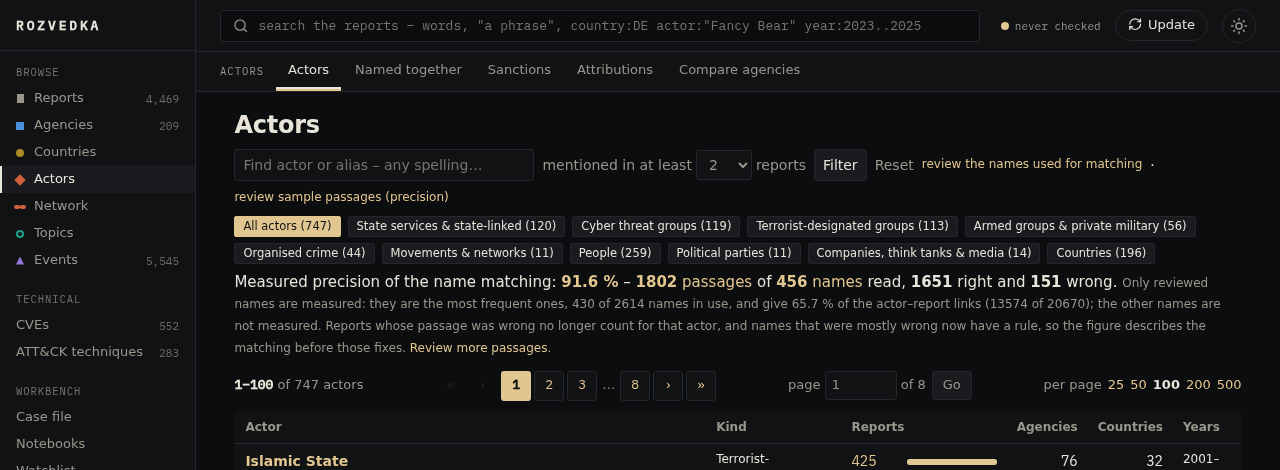
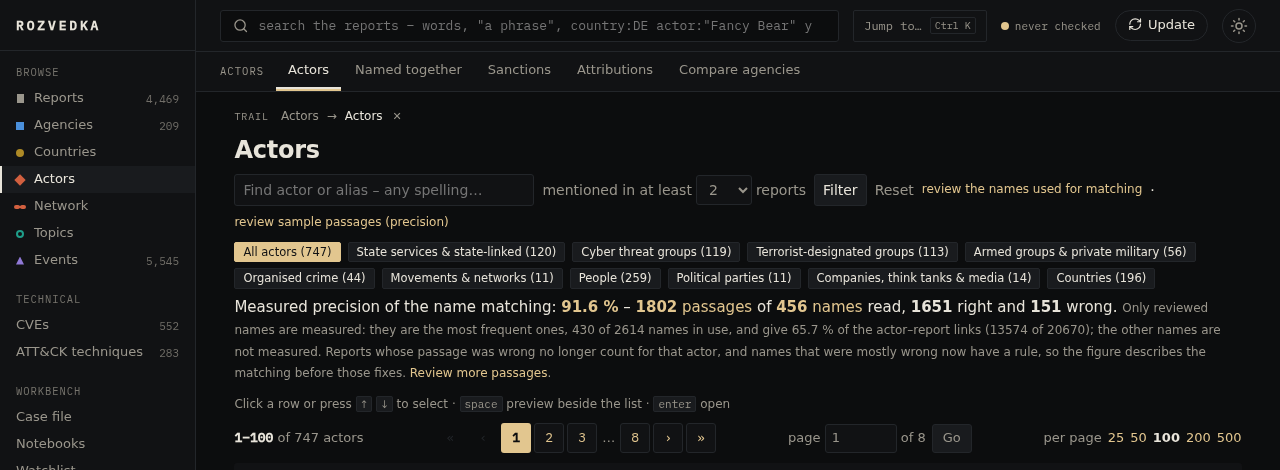
feat: preview pane on the Actors list (0.103.0)
A selected actor shows beside the list: key numbers, links by source, the
latest passage, the agencies naming it most, topics and co-named actors.
preview.js now serves any list whose rows carry data-pv and data-open.

diff --git a/rozvedka/templates/actor_preview.html b/rozvedka/templates/actor_preview.html
@@ -1,0 +1,33 @@
+{# one actor in the Actors list's preview pane (static/preview.js) – a piece of a page, not a page #}
+{% from "_ties.html" import ent %}
+{% set a = actor %}
+<p class="pv-kicker"><span>Preview · actor</span><button type="button" class="pv-close" title="Close the preview (Esc)">esc ✕</button></p>
+<h2 class="pv-title"><a href="/actors/{{ a.key }}">{{ a.label }}</a></h2>
+<p class="pv-by"><span class="ent"><i class="kdot kind-{{ a.kind }}"></i>{{ kind_name }}</span>{% if a.description %} <span class="muted">· {{ a.description }}
+  – {% if a.wikidata %}<a href="{{ a.wikidata.url }}">Wikidata</a>{% elif a.attack %}<a href="{{ a.attack.url }}">MITRE ATT&amp;CK</a>{% endif %}</span>{% endif %}</p>
+<p class="rp-actions"><a class="rp-btn rp-primary" href="/actors/{{ a.key }}">Open actor</a>
+  <a class="rp-btn" href="/documents?actor={{ a.key }}">Reports</a>
+  <a class="rp-btn" href="/actors/{{ a.key }}/timeline">Timeline</a>
+  {% if links %}<a class="rp-btn" href="/graph/rings?e={{ a.key }}">Rings</a>{% endif %}</p>
+{% set dated = timeline|selectattr('docs')|list if timeline else [] %}
+<table class="kv small pv-facts">
+  <tr><th>Reports</th><td><a href="/documents?actor={{ a.key }}">{{ docs|num }}</a> name{{ 's' if docs == 1 }} it · {{ agencies|length }} agenc{{ 'y' if agencies|length == 1 else 'ies' }}</td></tr>
+  {% if dated %}{% set peak = dated|sort(attribute='docs')|last %}<tr><th>Years</th><td>{{ dated[0].year }}{% if dated[-1].year != dated[0].year %}–{{ dated[-1].year }}{% endif %} · most in <a href="{{ peak.link }}">{{ peak.year }}</a> <span class="muted">({{ peak.docs }} report{{ 's' if peak.docs != 1 }})</span></td></tr>{% endif %}
+  {% for g, name in (('official', 'Official'), ('reference', 'Reference'), ('leaks', 'Leaked'), ('reports', 'Named with')) %}{% set ls = links|selectattr('group', 'equalto', g)|list %}{% if ls %}
+  <tr><th>{{ name }}</th><td>{% for l in ls %}<a href="{{ l.link }}" title="{{ l.name }}">{{ l.n|num }} {{ l.name.split(' (')[0] }}</a>{{ ' · ' if not loop.last }}{% endfor %}</td></tr>{% endif %}{% endfor %}
+</table>
+{% if passages %}{% set p = passages[0] %}<h3 class="pv-h">Latest passage <span class="muted">· {{ p.agency }}{% if p.year %} {{ p.year }}{% endif %}</span></h3>
+  <blockquote class="snippet pv-pass">{{ '…' ~ p.before[-around:] if p.before|length > around else p.before }}<mark>{{ p.match }}</mark>{{ p.after[:around] ~ '…' if p.after|length > around else p.after }}
+    <a class="pv-pg" href="{{ p.open }}">{% if p.page %}p. {{ p.page }}{% else %}open{% endif %}</a></blockquote>
+  <p class="muted small pv-from"><a href="/report/{{ p.doc_id }}">{{ (p.title or 'Untitled report')|truncate(90) }}</a></p>{% endif %}
+{% if agencies %}<h3 class="pv-h">Named most by</h3>
+  <ul class="pv-list">{% for g in agencies[:shown] %}<li><img class="flag-sm" src="{{ flag_url(g.country) }}" alt="" width="16" height="12">
+    <a href="/agency/{{ g.source_id }}">{{ g.agency }}</a>{{ pub_mark(g.source_id) }}
+    <a class="pv-n" href="/documents?actor={{ a.key }}&source={{ g.source_id }}">{{ g.docs }}</a></li>{% endfor %}</ul>
+  {% if agencies|length > shown %}<p class="muted small"><a href="/actors/{{ a.key }}#reporting-agencies">and {{ agencies|length - shown }} more →</a></p>{% endif %}{% endif %}
+{% if topics %}<h3 class="pv-h">Topics of its reports</h3>
+  <p class="pv-chips">{% for t in topics[:shown] %}<a class="topic-chip" href="{{ t.link }}">{{ t.name }} <b>{{ t.docs }}</b></a>{% endfor %}</p>{% endif %}
+{% if related.actors %}<h3 class="pv-h">Named in the same passage <span class="muted">· not evidence of a connection</span></h3>
+  <ul class="pv-list">{% for r in related.actors[:shown] %}<li>{{ ent(r.label, r.kind, '/actors/' ~ r.key) }}
+    <a class="pv-n" href="/actors/{{ a.key }}/with/{{ r.key }}" title="Passages naming both">{{ r.docs }}</a></li>{% endfor %}</ul>{% endif %}
+<p class="pv-keys">↑ ↓ or j k move · space preview · enter open · esc close</p>

diff --git a/rozvedka/static/preview.js b/rozvedka/static/preview.js
@@ -1,24 +1,27 @@
-// The Reports list: a row can be selected (click, ↑ ↓ or j k) and previewed in a pane beside the list (space, or its
-// button) without leaving the list; enter opens the report. The pane's content comes from /report/<id>/preview with the
-// list's own search, so it shows the passage that made the report match.
+// Lists with a preview pane (Reports, Actors): a row can be selected (click, ↑ ↓ or j k) and previewed in a pane
+// beside the list (space, or its button) without leaving the list; enter opens its page. A row says where its preview
+// (data-pv) and its page (data-open) are; a report's preview gets the list's own search, so it shows the passage
+// that made the report match.
 (() => {
-  const rows = [...document.querySelectorAll("table.docs tbody tr[data-doc]")];
+  const rows = [...document.querySelectorAll("tbody tr[data-pv]")];
   const pane = document.getElementById("pv");
   if (!rows.length || !pane) return;
   const cache = new Map();
   let sel = -1, open = false, timer = 0;
   const want = new URLSearchParams(location.search);
   const qs = new URLSearchParams();
-  for (const k of ["q", "exact", "indexed", "actor"]) if (want.get(k)) qs.set(k, want.get(k));
+  if (pane.dataset.search !== undefined) for (const k of ["q", "exact", "indexed", "actor"]) if (want.get(k)) qs.set(k, want.get(k));
+  const what = pane.dataset.what || "report";
+  const kicker = `<p class="pv-kicker"><span>Preview · ${what}</span></p>`;
 
   function show(i) {
-    const id = rows[i].dataset.doc;
-    const put = (html) => { if (rows[sel] && rows[sel].dataset.doc === id) { pane.innerHTML = html; pane.scrollTop = 0; } };
+    const id = rows[i].dataset.pv;
+    const put = (html) => { if (rows[sel] && rows[sel].dataset.pv === id) { pane.innerHTML = html; pane.scrollTop = 0; } };
     if (cache.has(id)) return put(cache.get(id));
-    pane.innerHTML = '<p class="pv-kicker"><span>Preview · report</span></p><p class="muted small">Loading…</p>';
-    fetch(`/report/${id}/preview?${qs}`).then((r) => r.ok ? r.text() : Promise.reject(r.status))
+    pane.innerHTML = kicker + '<p class="muted small">Loading…</p>';
+    fetch(`${id}?${qs}`).then((r) => r.ok ? r.text() : Promise.reject(r.status))
       .then((html) => { cache.set(id, html); put(html); })
-      .catch(() => put('<p class="pv-kicker"><span>Preview · report</span></p><p class="muted small">The preview could not be loaded.</p>'));
+      .catch(() => put(kicker + '<p class="muted small">The preview could not be loaded.</p>'));
   }
   function setOpen(on) {
     open = on && sel >= 0;
@@ -46,8 +49,8 @@
       setOpen(true);
     });
   });
-  const first = /^#pv-(\d+)$/.exec(location.hash);        // an address ending #pv-<report id> opens with that preview
-  const at = first ? rows.findIndex((r) => r.dataset.doc === first[1]) : -1;
+  const first = /^#pv-([\w.:-]+)$/.exec(location.hash);    // an address ending #pv-<row id> opens with that preview
+  const at = first ? rows.findIndex((r) => r.dataset.id === first[1]) : -1;
   if (at >= 0) { select(at, true); setOpen(true); }
   pane.addEventListener("click", (e) => { if (e.target.closest(".pv-close")) setOpen(false); });
   document.addEventListener("keydown", (e) => {
@@ -56,7 +59,7 @@
     if (k === "ArrowDown" || k === "j") select(sel < 0 ? 0 : sel + 1, true);
     else if (k === "ArrowUp" || k === "k") select(sel < 0 ? 0 : sel - 1, true);
     else if (k === " " && sel >= 0) setOpen(!open);
-    else if (k === "Enter" && sel >= 0) location.href = `/report/${rows[sel].dataset.doc}`;
+    else if (k === "Enter" && sel >= 0) location.href = rows[sel].dataset.open;
     else if (k === "Escape" && open) setOpen(false);
     else return;
     e.preventDefault();

diff --git a/rozvedka/static/style.css b/rozvedka/static/style.css
@@ -1703,8 +1703,8 @@ span.conn-n { color: var(--muted); }
 
 /* the Reports list's preview pane (static/preview.js): beside the list on a wide screen, over it on a narrow one */
 .docs tbody tr[data-doc] { cursor: default; }
-.docs tbody tr.sel > td { background: var(--chip); }
-.docs tbody tr.sel > td:first-child { box-shadow: inset 2px 0 0 var(--accent); }
+tbody tr[data-pv].sel > td { background: var(--chip); }
+tbody tr[data-pv].sel > td:first-child { box-shadow: inset 2px 0 0 var(--accent); }
 .pv-btn { border: 0; background: none; color: var(--muted); padding: 2px 4px; font-size: 14px; line-height: 1; cursor: pointer; }
 .pv-btn:hover, .pv-btn[aria-pressed="true"] { color: var(--accent); }
 .pv-hint { margin: 0 0 6px; }
@@ -1729,6 +1729,13 @@ span.conn-n { color: var(--muted); }
 .pv-pg { font: 11px var(--mono); white-space: nowrap; margin-left: 4px; }
 .pv-chips, .pv-named { margin: 0; display: flex; flex-wrap: wrap; gap: 5px 12px; }
 .pv-chips { gap: 5px; }
+.pv-list { list-style: none; margin: 0; padding: 0; font-size: 13px; }
+.pv-list li { display: flex; align-items: center; gap: 6px; padding: 2px 0; }
+.pv-n { margin-left: auto; font: 12px var(--mono); }
+.pv-from { margin: 4px 0 0 12px; }
+.pv-chips .topic-chip b { font-weight: 500; margin-left: 4px; }
+.a-pv { float: right; }
+@media (min-width: 1200px) { body.pv-open .actors th:nth-child(n+4), body.pv-open .actors td:nth-child(n+4) { display: none; } }
 .pv-keys { margin: 16px 0 0; padding-top: 10px; border-top: 1px solid var(--line); font: 11px var(--mono); color: var(--muted); }
 @media (min-width: 1200px) { /* beside the pane the list keeps year, publisher and title; the pane says the rest */
   body.pv-open .docs th:nth-child(n+4), body.pv-open .docs td:nth-child(n+4) { display: none; }

diff --git a/rozvedka/templates/actors.html b/rozvedka/templates/actors.html
@@ -44,13 +44,15 @@
   <code>python -m rozvedka index-actors</code>.</p>
 {% endif %}
 
+{% if rows %}<p class="pv-hint muted small">Click a row or press <kbd>↑</kbd> <kbd>↓</kbd> to select · <kbd>space</kbd> preview beside the list · <kbd>enter</kbd> open</p>{% endif %}
 {{ pager(pg, "actors") }}
 <table class="actors">
   <thead><tr><th>Actor</th><th>Kind</th><th>Reports</th><th class="num">Agencies</th><th class="num">Countries</th><th>Years</th></tr></thead>
   <tbody>
   {% for r in rows %}
-    <tr>
-      <td><a class="a-name" href="/actors/{{ r.key }}">{{ r.label }}</a>
+    <tr data-id="{{ r.key }}" data-pv="/actors/{{ r.key }}/preview" data-open="/actors/{{ r.key }}">
+      <td><button type="button" class="pv-btn a-pv" title="Preview beside the list (space)" aria-label="Preview" aria-pressed="false">◨</button>
+        <a class="a-name" href="/actors/{{ r.key }}">{{ r.label }}</a>
         {% if r.description %}<div class="muted small">{{ r.description }}</div>{% endif %}</td>
       <td class="small">{{ kinds.get(r.kind, r.kind) }}</td>
       <td class="a-docs"><a href="/documents?actor={{ r.key }}">{{ r.docs }}</a>
@@ -64,6 +66,8 @@
 </table>
 {{ pager(pg, "actors") }}
 {% if not rows and meta.get('names_hash') %}<p class="muted">No actor matches.</p>{% endif %}
+<aside class="pv" id="pv" data-what="actor" aria-label="Preview of the selected actor" aria-live="polite" hidden></aside>
+<script src="{{ asset('preview.js') }}" defer></script>
 
 <section class="viz-card provenance">
   <h2 class="viz-title">Where the actors come from</h2>

diff --git a/rozvedka/templates/index.html b/rozvedka/templates/index.html
@@ -107,7 +107,7 @@
   <thead><tr><th>Year</th><th>Source</th><th>Title</th><th>Lang</th><th>Status</th><th></th></tr></thead>
   <tbody>
   {% for d in docs %}
-    <tr class="{{ 'hidden' if d.hidden }}" data-doc="{{ d.id }}">
+    <tr class="{{ 'hidden' if d.hidden }}" data-doc="{{ d.id }}" data-id="{{ d.id }}" data-pv="/report/{{ d.id }}/preview" data-open="/report/{{ d.id }}">
       <td class="num">{% if d.year and d.year_source %}<span class="yr-est" title="Year {{ 'set by hand' if d.year_source == 'set by hand' else 'from the report – ' ~ d.year_source }}">{{ '≈' if 'publication date' in d.year_source }}{{ d.year }}</span>{% else %}{{ d.year or '—' }}{% endif %}</td>
       <td class="src"><a href="/documents?{{ qs(source=d.source_id, page=1) }}" title="{{ d.name_en or '' }}">
         <img class="flag-sm" src="{{ flag_url(d.country) }}" alt="{{ d.country }}" width="20" height="15">
@@ -155,7 +155,7 @@
 </div>
 
 {{ pager(pg, "documents") }}
-<aside class="pv" id="pv" aria-label="Preview of the selected report" aria-live="polite" hidden></aside>
+<aside class="pv" id="pv" data-what="report" data-search aria-label="Preview of the selected report" aria-live="polite" hidden></aside>
 <script src="{{ asset('preview.js') }}" defer></script>
 {% if snippets_url %}
 <script>

diff --git a/rozvedka/routes/actors.py b/rozvedka/routes/actors.py
@@ -6,6 +6,9 @@ from ..web import _years_desc, local_url, tpl
 
 router = APIRouter()
 
+PREVIEW_ROWS = 6          # agencies, topics and co-named actors listed in an actor's preview
+PREVIEW_AROUND = 240      # characters of the passage shown on each side of the name
+
 
 @router.get("/actors")
 def actors_page(request: Request, kind: str = "", q: str = "", min_docs: int = 2, page: str = "1", per_page: str = ""):
@@ -118,6 +121,16 @@ def actor_timeline(request: Request, key: str):
             outside += 1
     return tpl.TemplateResponse(request, "actor_timeline.html", {**d, "events": events, "lane": lane, "lane_outside": outside,
                                                                 "marks": marks})
+
+
+@router.get("/actors/{key}/preview")
+def actor_preview(request: Request, key: str):
+    """The actor as the Actors list shows it beside a selected row: numbers, links by source, the latest passage."""
+    d = actors.actor_detail(key, 1, "1")
+    if d is None:
+        raise HTTPException(404, "unknown actor")
+    return tpl.TemplateResponse(request, "actor_preview.html", {**d, "links": ties.layer_counts(key), "shown": PREVIEW_ROWS,
+                                                               "around": PREVIEW_AROUND})
 
 
 @router.get("/actors/{key}")

diff --git a/tests/test_actors.py b/tests/test_actors.py
@@ -313,3 +313,19 @@ def test_cached_results_are_shared_inside_and_outside_a_session(library):
         con.execute("SELECT 1").fetchone()
         assert count() == 6
     assert count() == 6 and calls == [1]
+
+
+def test_actor_preview(library):
+    from fastapi.testclient import TestClient
+
+    from rozvedka.app import app
+    actors.index(workers=1)
+    client = TestClient(app)
+    t = client.get("/actors/Q3/preview").text
+    assert "<html" not in t and "Preview · actor" in t and 'href="/actors/Q3"' in t                 # a piece of a page
+    assert '<a href="/documents?actor=Q3">1</a> names it · 1 agency' in t                          # the number opens its list
+    assert "<mark>Federal Security Service</mark>" in t and "<td>2024 · most in" in t and 'href="/documents?actor=Q3&source=1"' in t and 'href="/actors/Q3/with/Q5"' in t
+    assert client.get("/actors/nope/preview").status_code == 404
+    lst = client.get("/actors?min_docs=1").text
+    assert 'data-id="Q3" data-pv="/actors/Q3/preview" data-open="/actors/Q3"' in lst and 'id="pv" data-what="actor"' in lst
+    assert "preview.js" in lst and "data-search" not in lst              # an actor's preview does not take the list's search

diff --git a/tools/screenshots.py b/tools/screenshots.py
@@ -75,6 +75,7 @@ SHOTS = {
     "matrix-lift": ("/trends/matrix?mx=lift", 1000, [("sleep", 5)], None),   # over-emphasis against all reports
     "actor-search": ("/actors", 760, [("eval", "document.getElementById('ac-q').focus(); 1"), ("type", "prigozin"),
                                       ("sleep", 2)], None),
+    "actor-preview": ("/actors?kind=cyber", 900, [("eval", "['j', 'j', 'j', 'j', ' '].forEach((k) => document.dispatchEvent(new KeyboardEvent('keydown', {key: k}))); scrollTo(0, 0); 1"), ("sleep", 5)], None),
     "actor-precision": ("/actors", 470, [], None),                 # the measured precision above the list
     "actor": ("/actors/Q20757678", 1200, [("sleep", 3)], None),        # a profile with a photo and facts
     "connections": (f"/actors/{WAGNER}", 900, [("sleep", 3)], "#connections"),

diff --git a/tests/test_report.py b/tests/test_report.py
@@ -129,3 +129,4 @@ def test_preview_pane(library):
     assert "&lt;b&gt;" in client.get("/report/3/preview?q=<b>").text and client.get("/report/999/preview").status_code == 404
     lst = client.get("/documents").text
     assert 'data-doc="1"' in lst and 'id="pv"' in lst and "preview.js" in lst and 'class="pv-btn"' in lst
+    assert 'data-pv="/report/1/preview" data-open="/report/1"' in lst and "data-search" in lst     # what preview.js reads

diff --git a/rozvedka/__init__.py b/rozvedka/__init__.py
@@ -5,7 +5,7 @@ from pathlib import Path
 
 # Single source of the release version (Semantic Versioning, https://semver.org).
 # Do not edit by hand: run `python3 tools/bump_version.py patch|minor|major` (see CHANGELOG.md, "Versioning").
-__version__ = "0.102.0"
+__version__ = "0.103.0"
 
 
 @lru_cache(maxsize=1)

diff --git a/docs/ROADMAP.md b/docs/ROADMAP.md
@@ -270,7 +270,7 @@ Drafts of three screens are in `docs/design/` (an actor, the Reports list, a cou
 | I1 | Menu by the things the library holds (reports, agencies, countries, actors, network, topics, events), new monochrome look in both themes | **done 0.95.0** |
 | I2 | One page shape for every thing: identity, six key numbers, then its views as tabs (overview, reports, relations, timeline, map) | **actors and reports done 0.96.0** (`static/tabs.js`); **countries and topics done 0.97.0**; **agencies done 0.98.0** (`/agency/<id>`; the credibility profile of a think tank stays on `/publisher/<id>`) |
 | I3 | One "Connected to" block: every link by kind, with count and source – actor and entity pages merged | **on the actor's Overview 0.96.0**; **entity pages done 0.99.0** – same head, key numbers, tabs and "Connected to" as an actor (an entity that is an actor opens the actor's page) |
-| I4 | Preview pane: a selected row shows the report with its passages and pages without leaving the list; keyboard moves | **done 0.100.0** on the Reports list (`static/preview.js`, `/report/<id>/preview`); other lists (actors, links) could use the same pane |
+| I4 | Preview pane: a selected row shows the report with its passages and pages without leaving the list; keyboard moves | **done 0.100.0** on the Reports list (`static/preview.js`, `/report/<id>/preview`); **Actors list done 0.103.0** (`/actors/<key>/preview`; rows carry `data-pv` and `data-open`, so the links list can follow) |
 | I5 | Trail of hops and a scope (publisher kind, years, countries) kept between pages; jump-to-anything box | **jump box and trail done 0.101.0** (`rozvedka/jump.py`, `static/jump.js`); **kept scope done 0.102.0** (`static/scope.js`) – on the pages that already filter by kind, years or country; actor, country and topic pages have no such filters and say so |
 | I6 | Home page in the new look (the console banner goes) | **done 0.101.1** |
 

diff --git a/CHANGELOG.md b/CHANGELOG.md
@@ -27,6 +27,18 @@ From 0.9.1 on, the significance of a change decides which part of `MAJOR.MINOR.P
 
 ## [Unreleased]
 
+## [0.103.0] – 2026-11-13
+
+### Added
+- **Preview pane on the Actors list** – select a row (click, ↑ ↓ or j k) and press space: a pane beside the list shows
+  the actor's kind and description, the reports and agencies that name it and the years, its links by source, the
+  latest passage with its page, the agencies that name it most, the topics of its reports and the actors named in the
+  same passage. Every number opens its list; enter opens the actor's page, `#pv-<actor key>` in the address opens the
+  list with that preview.
+
+### Changed
+- The preview script serves any list whose rows say where their preview and page are, so further lists can use it.
+
 ## [0.102.0] – 2026-11-13
 
 ### Added
@@ -2192,7 +2204,8 @@ From 0.9.1 on, the significance of a change decides which part of `MAJOR.MINOR.P
 - Crawler, polite downloader (robots.txt, per-host delay, PDF check, de-duplication) and FastAPI web portal.
 - systemd user units for the portal and a weekly update timer.
 
-[Unreleased]: https://github.com/iiogurt/Rozvedka/compare/v0.102.0...HEAD
+[Unreleased]: https://github.com/iiogurt/Rozvedka/compare/v0.103.0...HEAD
+[0.103.0]: https://github.com/iiogurt/Rozvedka/compare/v0.102.0...v0.103.0
 [0.102.0]: https://github.com/iiogurt/Rozvedka/compare/v0.101.1...v0.102.0
 [0.101.1]: https://github.com/iiogurt/Rozvedka/compare/v0.101.0...v0.101.1
 [0.101.0]: https://github.com/iiogurt/Rozvedka/compare/v0.100.0...v0.101.0
